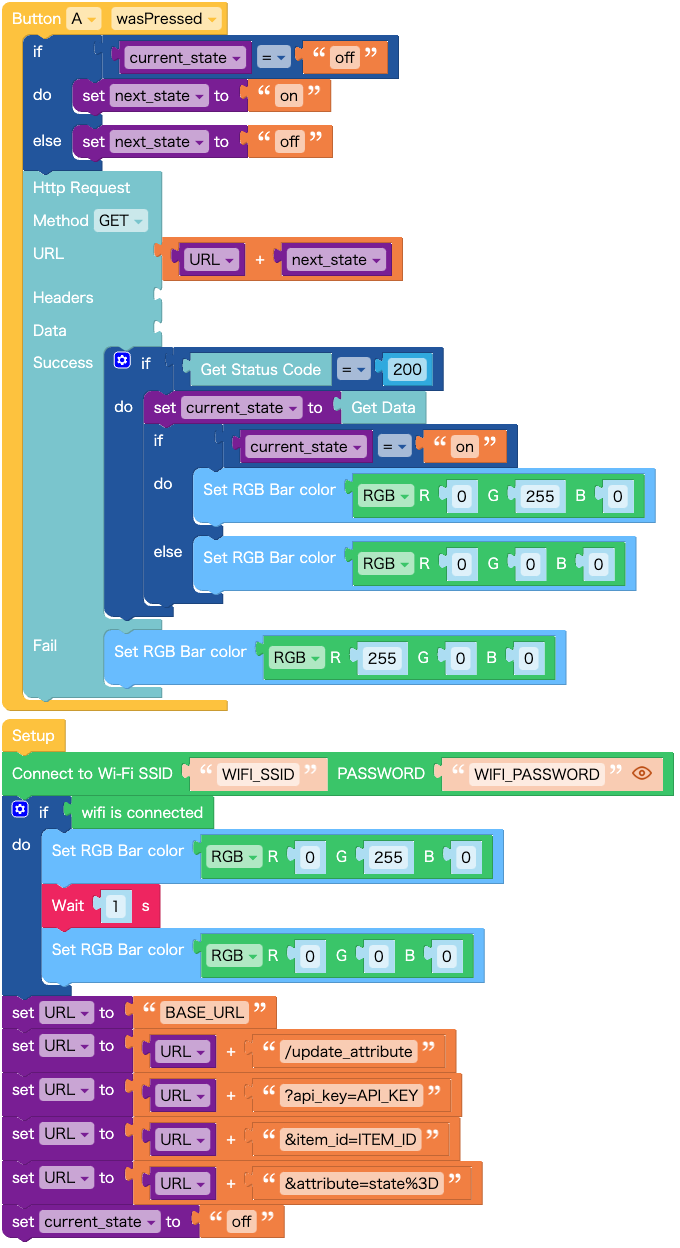
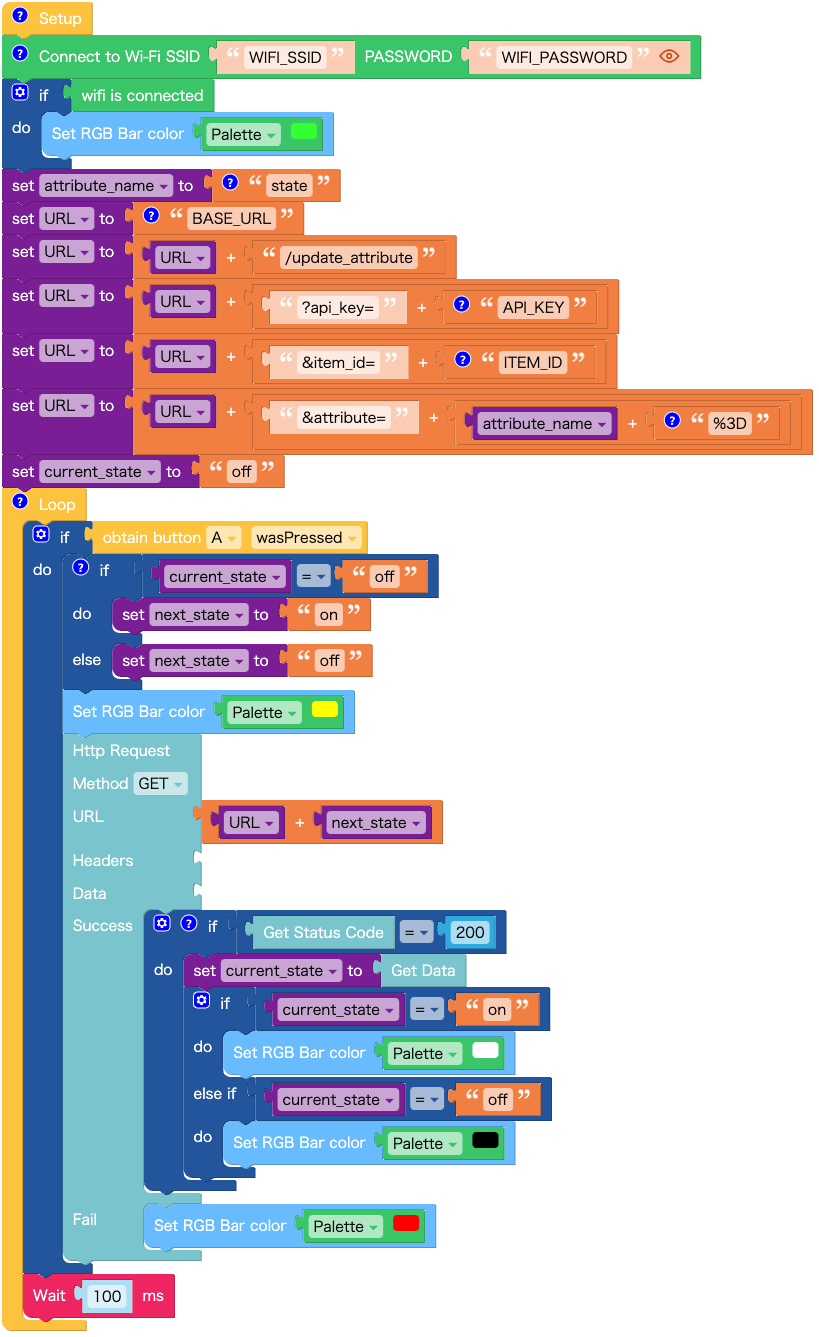
Update examples
- Add examples for Fire
- Update examples for ATOM
- Update README.md

diff --git a/examples/uiflow/README.md b/examples/uiflow/README.md
@@ -13,41 +13,44 @@
 ```mermaid
 sequenceDiagram
     actor User
-    participant M5Stack
+    participant Controller
     participant API as API Server
     participant Firestore
   
 loop Update Item Attribute
-    User->>M5Stack: Press button
-    M5Stack->>+API: /update_attribute
+    User->>Controller: Press button
+    Controller->>+API: /update_attribute
     API->>Firestore: Update item attribute
-    API-->>-M5Stack: Return result
-    M5Stack->>M5Stack: Refresh display and LEDs
-    User-->>M5Stack: Observe update
+    API-->>-Controller: Return result
+    Controller->>Controller: Refresh display and LEDs
+    User-->>Controller: Observe update
 end
 ```
 
 ![UIFlow visual script example](./update_attribute_atom.png)
 
-## Contents
-
 ### Examples
 
-#### For ATOM Controllers (e.g., ATOM LITE)
+- For ATOM Controllers (e.g., ATOM LITE)
+  - `update_attribute_atom.mf5`: Update the `state` attribute of an item using the `/update_attribute` endpoint.
+  - `get_attribute_atom.m5f`: Retrieve an attribute of an item via the `/get_attribute` endpoint.
+- For Fire Controller:
+  - `update_attribute_fire.mf5`: Update the `state` attribute of an item using the `/update_attribute` endpoint.
+  - `get_attribute_fire.m5f`: Retrieve the `state` attribute of an item via the `/get_attribute` endpoint.
+  - `update_attribute_tof_fire.m5f`: Update the `distance` attribute with a value measured by a ToF sensor of an item via the `/update_attribute` endpoint.
+  - `update_attribute_tof_find_edges_fire.m5f`: Update the `distance` attribute using edge detection by thresholding a value measured by a ToF sensor via the `/update_attribute` endpoint.
 
-- `update_attribute_atom.mf5`: This visual script allows you to modify an attribute of an item using the `/update_attribute` endpoint.
-- `get_attribute_atom.m5f`: This visual script retrieves an attribute of an item via the `/get_attribute` endpoint.
-
-Running an Example:
+### Running an Example with UIFlow 1.0
 
 1. Navigate to the UIFlow editor by visiting [https://flow.m5stack.com/](https://flow.m5stack.com/).
 2. Select `UIFlow1.0` and click the `Confirm` button.
-3. Enter the API key for your controller, select `ATOM LITE`, and then click the `OK` button.
-4. Click the `Open` button located at the top-right corner.
+3. Enter the API key for your controller, select your controller (e.g., `ATOM LITE`, `Fire`), and then click the `OK` button.
+4. Click the `Open` button located in the top-right corner.
 5. Choose an `.mf5` file.
-6. Edit parameters, such as `WIFI_SSID` or the attribute name (replace `state` before `%3D` with the real attribute name here `%3D` means `=`), and click the `Run` button to execute the code. Note that the code will be erased if the controller is powered off or reset.
-7. Modify your code as needed.
-8. Once finished, click the `Download` button to download the code to your controller.
+6. Edit parameters, such as `WIFI_SSID`, and the attribute name if necessary.
+7. Click the `Run` button to execute the code.
+8. Modify your code as needed.
+9. Once finished, click the `Download` button to save the code to your controller (otherwise, the code will be erased if the controller is powered off or reset).
 
 ### Utilities
 
@@ -55,6 +58,6 @@ Running an Example:
 
 ## Instructions for Workshop Tutors
 
-1. Refer to [the official tutorial](https://docs.m5stack.com/en/quick_start/m5core/uiflow). Using M5Burner, update the firmware of each controller to the designated version (e.g., v1.9.6 for ATOM controllers).
-2. Set up Wi-Fi for each controller using M5Burner.
+1. Refer to [the official tutorial](https://docs.m5stack.com/en/quick_start/m5core/uiflow).
+2. Using M5Burner, update the firmware of each controller to the designated version (e.g., `v1.9.6` for ATOM controllers and `v1.12.5` for Fire) with proper Wi-Fi settings.
 3. Make a note of the API key for every controller. Share this information with participants in a manner you find suitable, such as attaching a sticky note to a workshop kit box.
